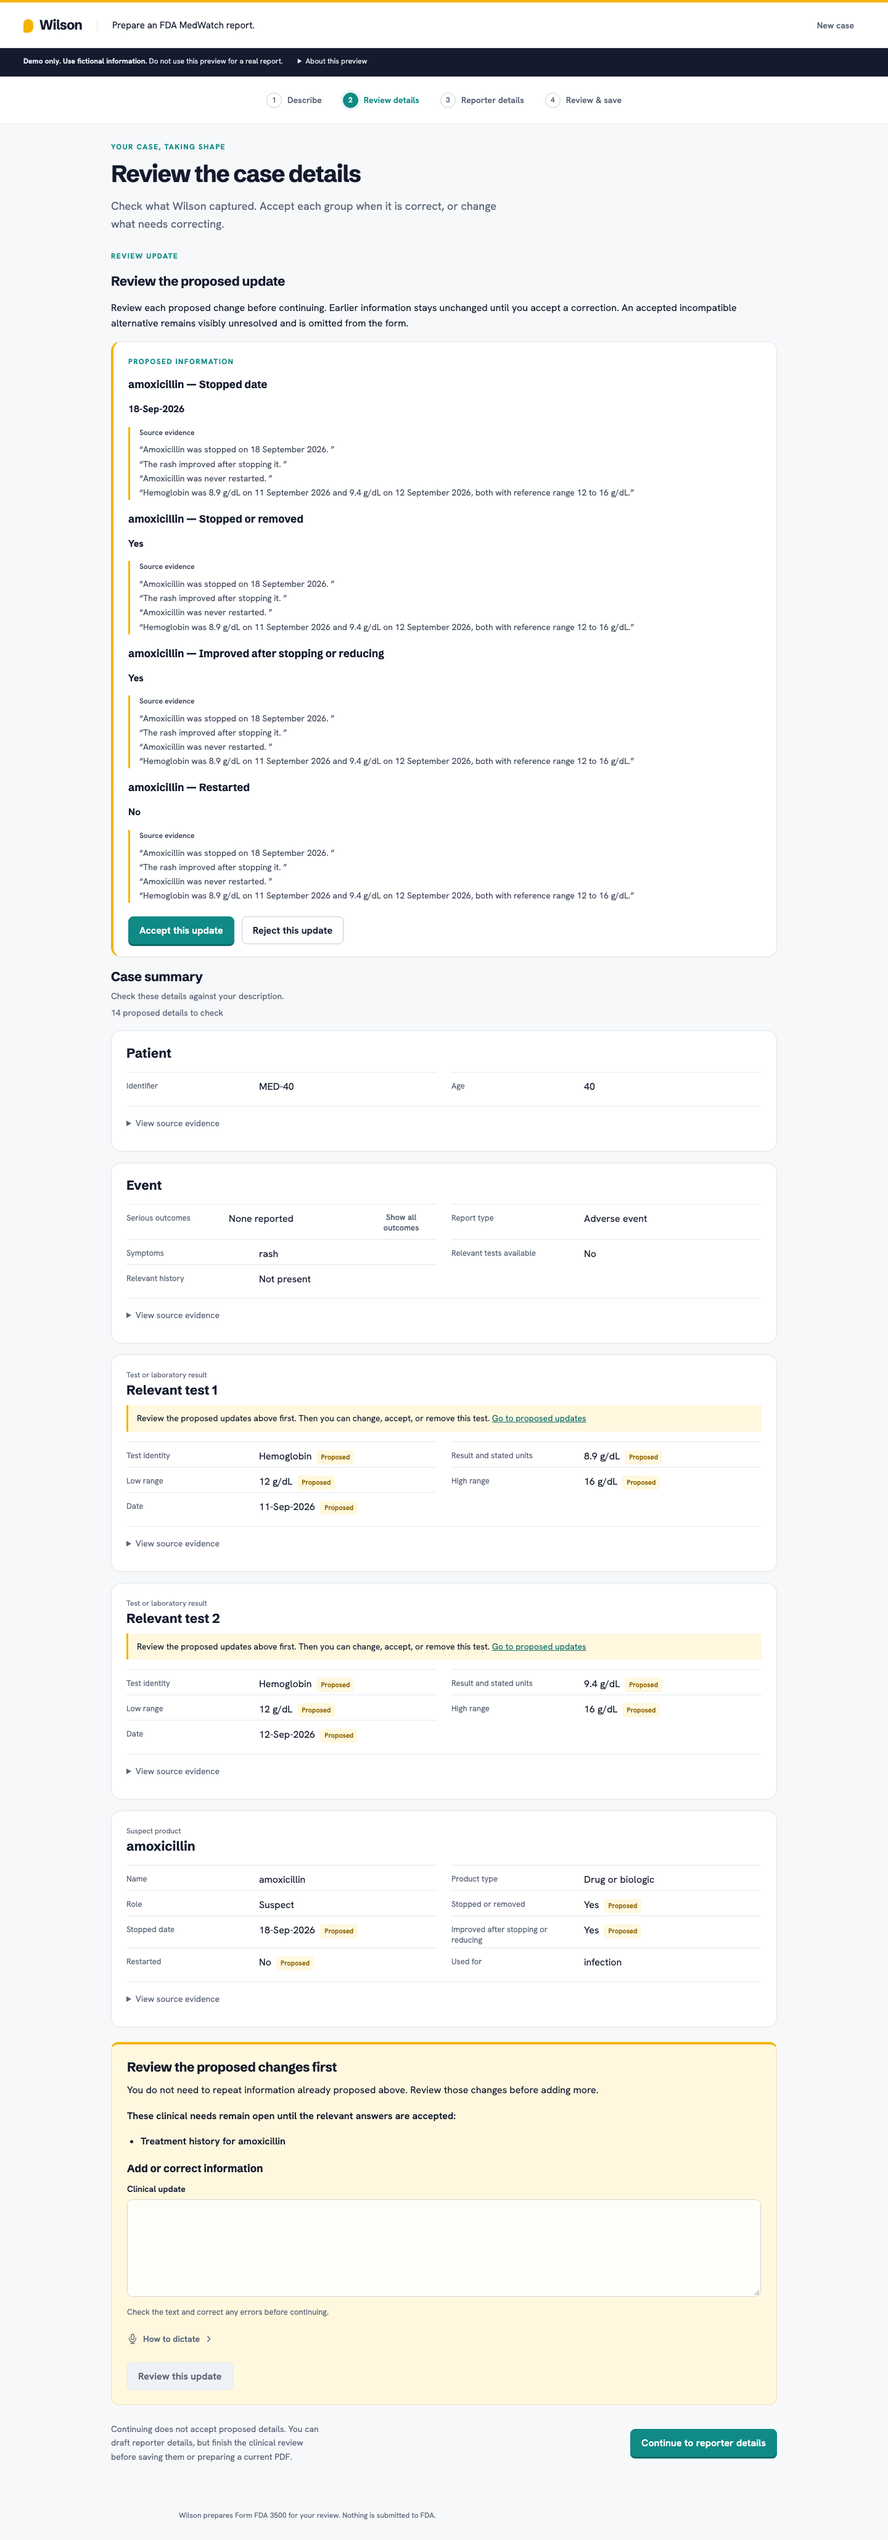
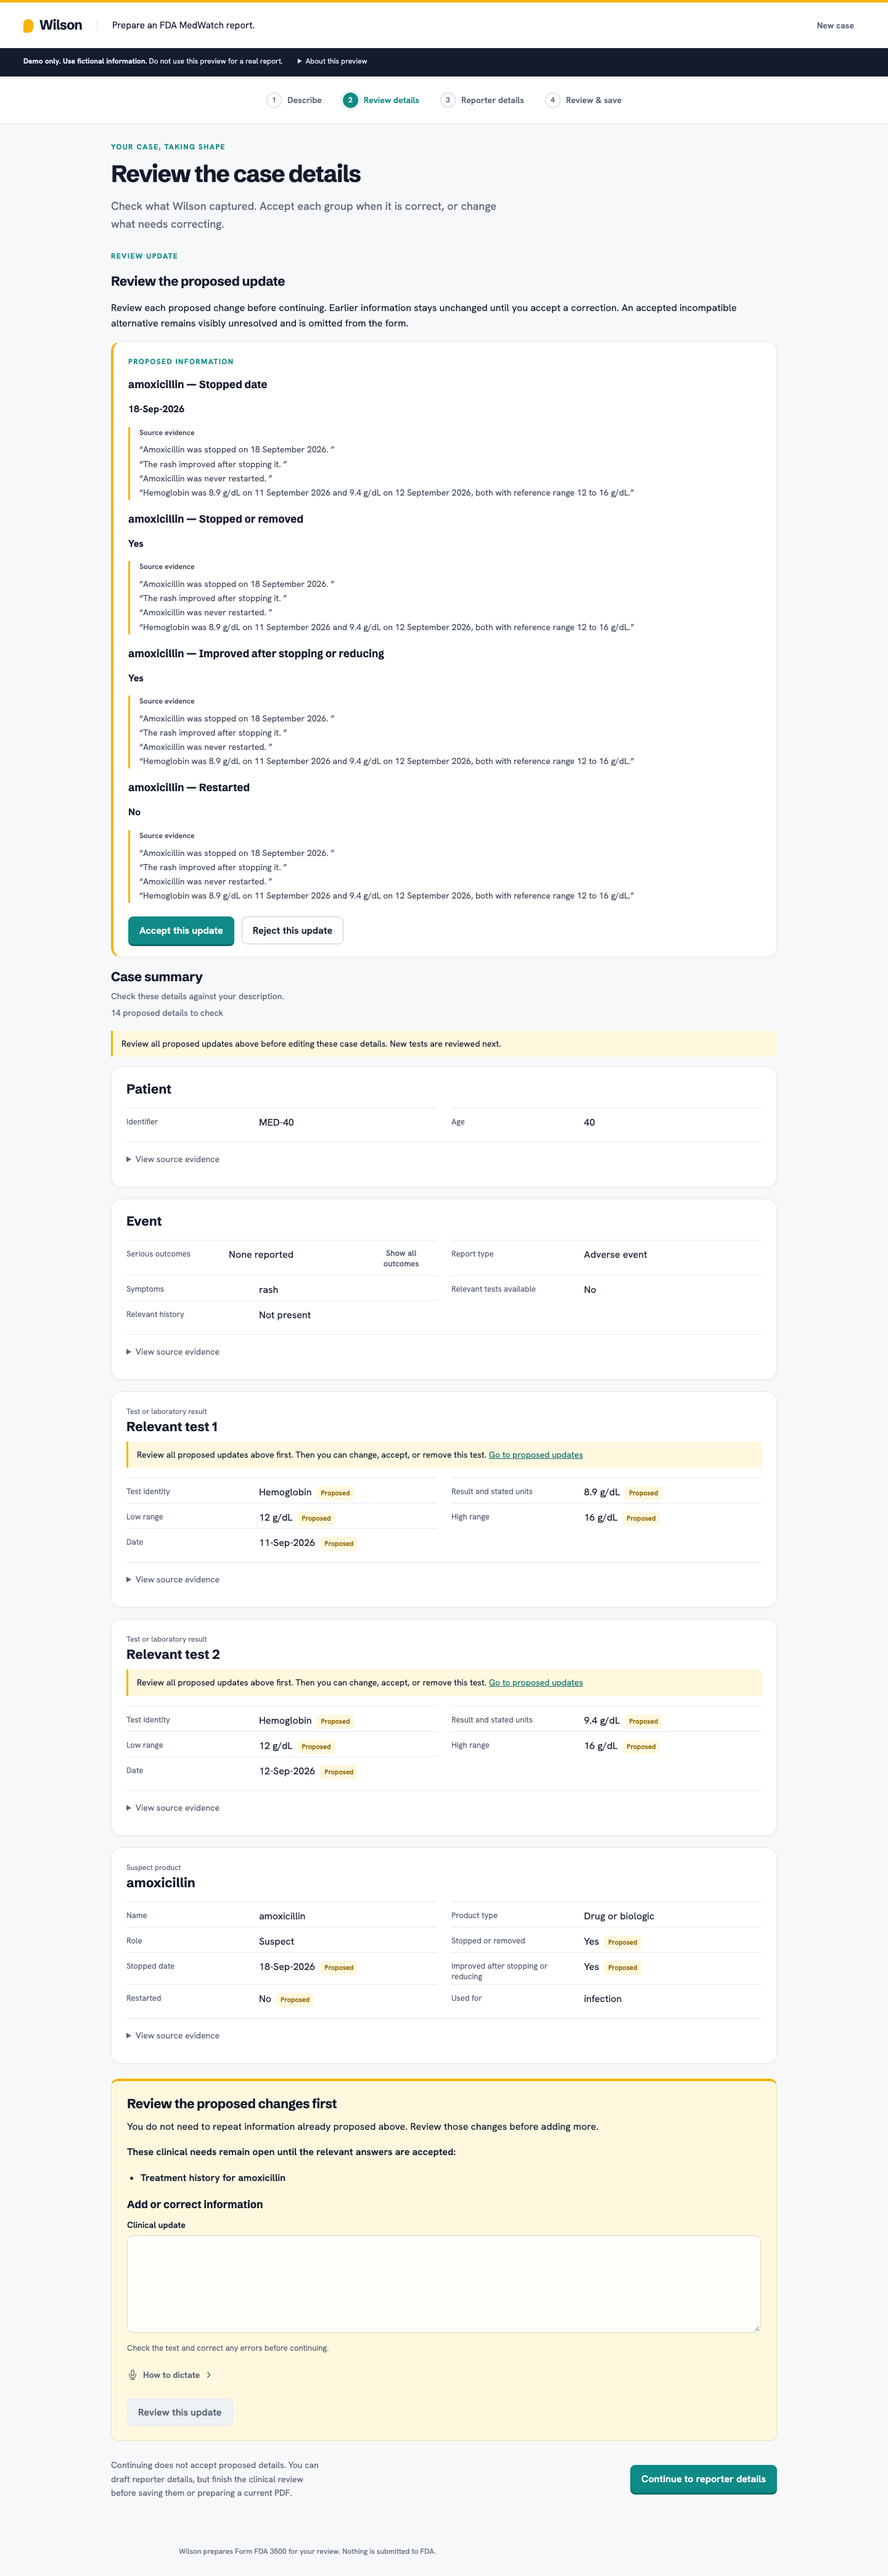
Clarify global update review before editing case details

diff --git a/app/journey.tsx b/app/journey.tsx
@@ -241,6 +241,7 @@ export default function Journey() {
           {snapshot.stage === "review-update" && <UpdateReview snapshot={snapshot} busy={busy} act={act} />}
           {snapshot.review.attention.filter(({ kind }) => kind === "conflict").map((item) => <ConflictCard key={item.target} snapshot={snapshot} item={item} busy={busy || snapshot.stage !== "output"} act={act} />)}
           <CaseSummaryHeading attention={snapshot.review.attention} />
+          {snapshot.stage === "review-update" && <p className={styles.reviewDependency}>Review all proposed updates above before editing these case details. New tests are reviewed next.</p>}
           <CaseCards key={browserState?.case.id} snapshot={snapshot} busy={busy} act={act} />
           <section className={styles.invitation} aria-label="Useful clinical details">
             <h2>{snapshot.stage === "review-update" ? "Review the proposed changes first" : "Anything to add or correct?"}</h2>
@@ -846,7 +847,7 @@ function CaseCard({ domId, title, eyebrow, entity, entityId, entityState, groupI
     {fields.every((field) => !activeValue(facts[field]) && !facts[field]?.history.length && !facts[field]?.conflicts.length) && <p className={styles.hint}>No details were captured for this group. It can be left blank.</p>}
     {entityState === "withdrawn" && <p className={styles.withdrawn}>Withdrawn from the active report; reviewed facts and source history are retained below.</p>}
     {entity === "test" && entityState !== "withdrawn" && !knownString(activeValue(facts.testName)) && <p role="status">Test identity is not recorded as known. Check the source wording. You can supply its name in Clinical update or leave it unknown for a partial report.</p>}
-    {reviewBlocked && <p className={styles.reviewDependency}>Review the proposed updates above first. Then you can change, accept, or remove this {entity === "test" ? "test" : "product"}. <a href="#update-review-title" onClick={() => document.getElementById("update-review-title")?.focus()}>Go to proposed updates</a></p>}
+    {reviewBlocked && <p className={styles.reviewDependency}>Review all proposed updates above first. Then you can change, accept, or remove this {entity === "test" ? "test" : "product"}. <a href="#update-review-title" onClick={() => document.getElementById("update-review-title")?.focus()}>Go to proposed updates</a></p>}
     <dl>{groupedOutcomes && <div>
       <dt>Serious outcomes</dt>
       <dd>{outcomeFields.filter((field) => (activeValue(facts[field]) as { value: boolean }).value).map((field) => factControl("event", field)!.label).join(", ") || "None reported"}{outcomeFields.some((field) => facts[field].proposals.length > 0) && <span className={styles.proposed}>Proposed</span>}</dd>

diff --git a/tests/e2e/zzz-usability.spec.ts b/tests/e2e/zzz-usability.spec.ts
@@ -88,14 +88,16 @@ test("focused usability: truthful activity, draft demo reporter, review dependen
   await expect(page.getByLabel("Clinical update", { exact: true })).toHaveValue(usabilityUpdate);
   await page.getByRole("button", { name: "Review this update", exact: true }).click();
   const test1 = page.locator("#case-card-test-1"), test2 = page.locator("#case-card-test-2");
-  await expect(test2).toContainText("Review the proposed updates above first");
+  await expect(page.getByText("Review all proposed updates above before editing these case details. New tests are reviewed next.", { exact: true })).toBeVisible();
+  await expect(page.locator("#case-card-patient").getByRole("button", { name: "Change", exact: true })).toHaveCount(0);
+  await expect(test2).toContainText("Review all proposed updates above first");
   await expect(test2.getByRole("button", { name: "Accept Relevant test 2", exact: true })).toHaveCount(0);
   await test2.getByRole("link", { name: "Go to proposed updates" }).click();
   await expect(page.getByRole("heading", { name: "Review the proposed update", exact: true })).toBeFocused();
   await page.screenshot({ path: info.outputPath("update-dependencies-desktop.png"), fullPage: true });
   await page.getByRole("button", { name: "Accept this update", exact: true }).click();
   await expect(test1.getByRole("heading")).toBeFocused();
-  await expect(test2).not.toContainText("Review the proposed updates above first");
+  await expect(test2).not.toContainText("Review all proposed updates above first");
   await acceptOpeningGroups(page);
   await goTo(page, "Reporter details");
   await expect(page.getByLabel("Reporter email", { exact: true })).toHaveValue("casey.reed@example.test");

diff --git a/evidence/issue-106/README.md b/evidence/issue-106/README.md
@@ -103,3 +103,22 @@ verification actions, not changes to Steve's walkthrough state. Both desktop and
 mobile checks passed without horizontal overflow. `preview-results.json` retains
 the exact deployment and checks; the three PDFs and screenshots retain results.
 There were zero application-model requests or spend in this revision.
+
+## Independent review disposition
+
+The standard subscription Sonnet high review of `4ce47df` found no blockers and
+three non-blocking follow-ups. PR #107 retains its complete attributed result.
+The bounded remediation adds guidance above all case cards while update review
+is pending, covering patient/event editing as well as new tests. Card guidance
+now explicitly says **all** proposed updates: the dependency is global, so the
+link correctly targets the whole update-review section rather than an entity's
+individual group. A real assistive-technology spot-check is tracked in #108;
+Chromium's accessible names passed, but screen-reader parity is not claimed.
+No case action, gating, clinical or PDF semantics changed in this remediation.
+
+The post-review fixture-inventory correction and stronger union-of-fields PDF
+comparisons tighten acceptance evidence. They do not relax a product rule or
+introduce a new premise. Complete deterministic checks, build and browser checks
+pass on the final work; required CI and final deployment identity are recorded on
+the PR. This bounded closure relies on the originating review under DELIVERY.md,
+without a recursive model run.
